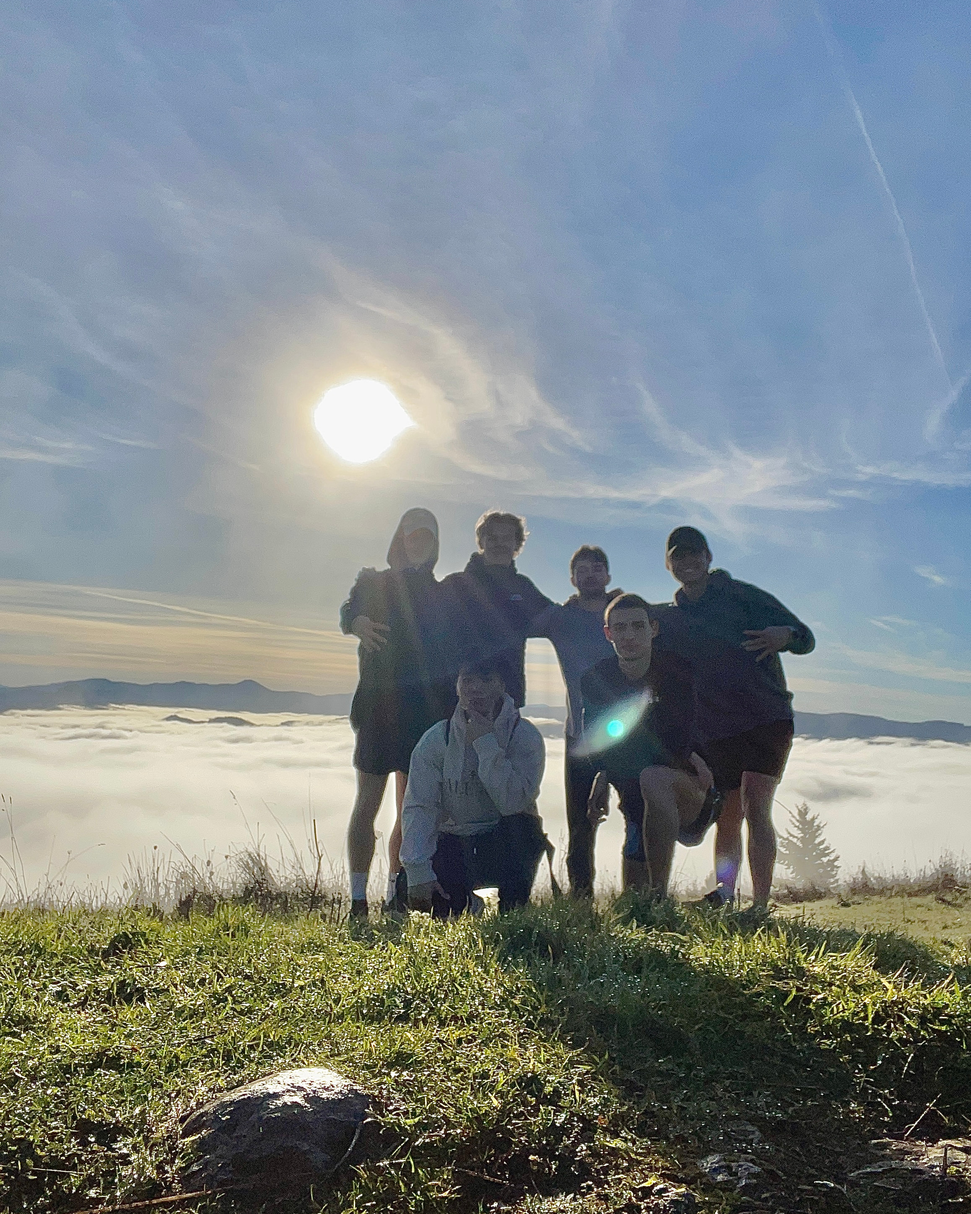
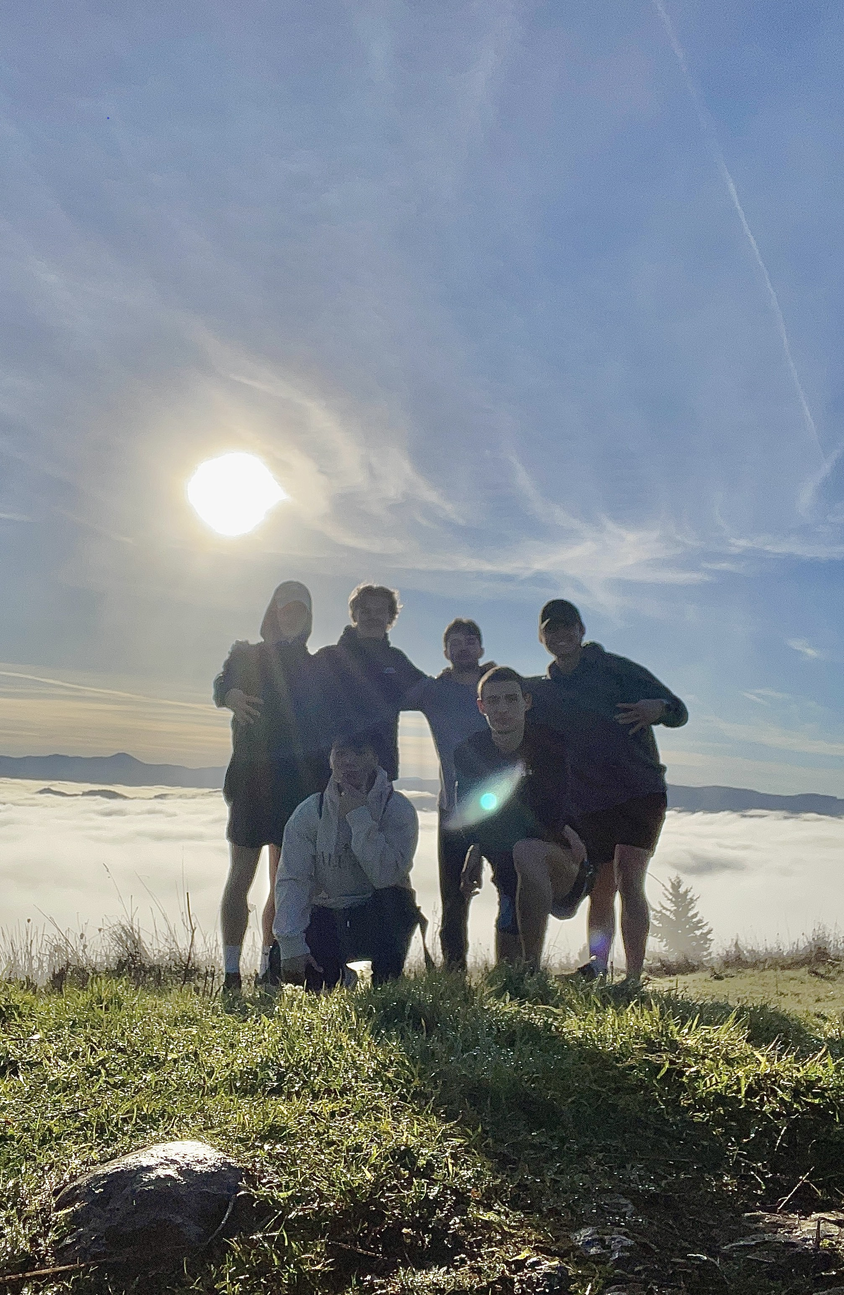
style(about): added constant border around images

diff --git a/docs/design.md b/docs/design.md
@@ -199,7 +199,7 @@ Layout
 - Keep clear space around both boxes. A future background animation must never overlap them, the header or the footer. It is not built.
 
 Carousel
-- The track is a horizontal scroller with `scroll-snap-type: x mandatory` and a hidden scrollbar. One slide per photo, each 100% wide, 4:5, `object-fit: cover`, radius 10px. The frame shows exactly one photo with no preview of the next and no multi-image badge. Touch swipe and trackpad scroll are native scrolling. No auto-advance.
+- The track is a horizontal scroller with `scroll-snap-type: x mandatory` and a hidden scrollbar. One slide per photo, each 100% wide, 4:5, `object-fit: cover`, with square corners. The track itself has the 10px radius and clips the slides, so the rounded frame stays still and only the photos move. The frame shows exactly one photo with no preview of the next and no multi-image badge. Touch swipe and trackpad scroll are native scrolling. No auto-advance.
 - Images use Astro `<Image>` with widths 432, 864, 1296 and 1728 and `sizes="(min-width: 900px) 432px, calc(100vw - 32px)"`, covering 432px desktop and full-width mobile at 1x and 2x. The first photo is eager, the rest lazy.
 - Semantics: the track is the region (`role="region"`, `tabindex="0"`, `aria-roledescription="carousel"`, `aria-label="Photos"`) with the site's 2px `selected` focus ring. Each slide is a group with `aria-roledescription="slide"` and `aria-label="N of M"`.
 - Keyboard: Left and Right move one photo while the track has focus. The listener is on the track, not the window.
